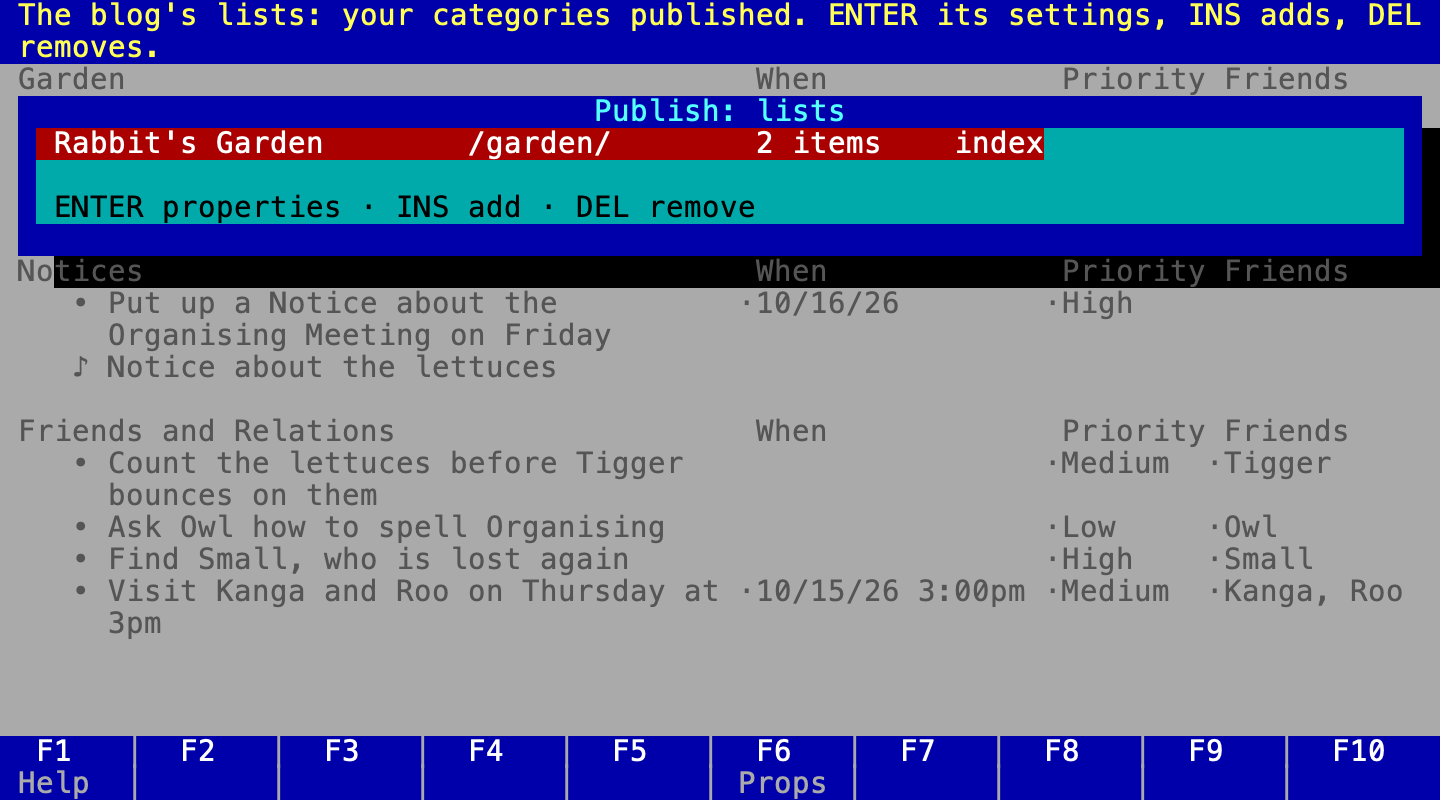
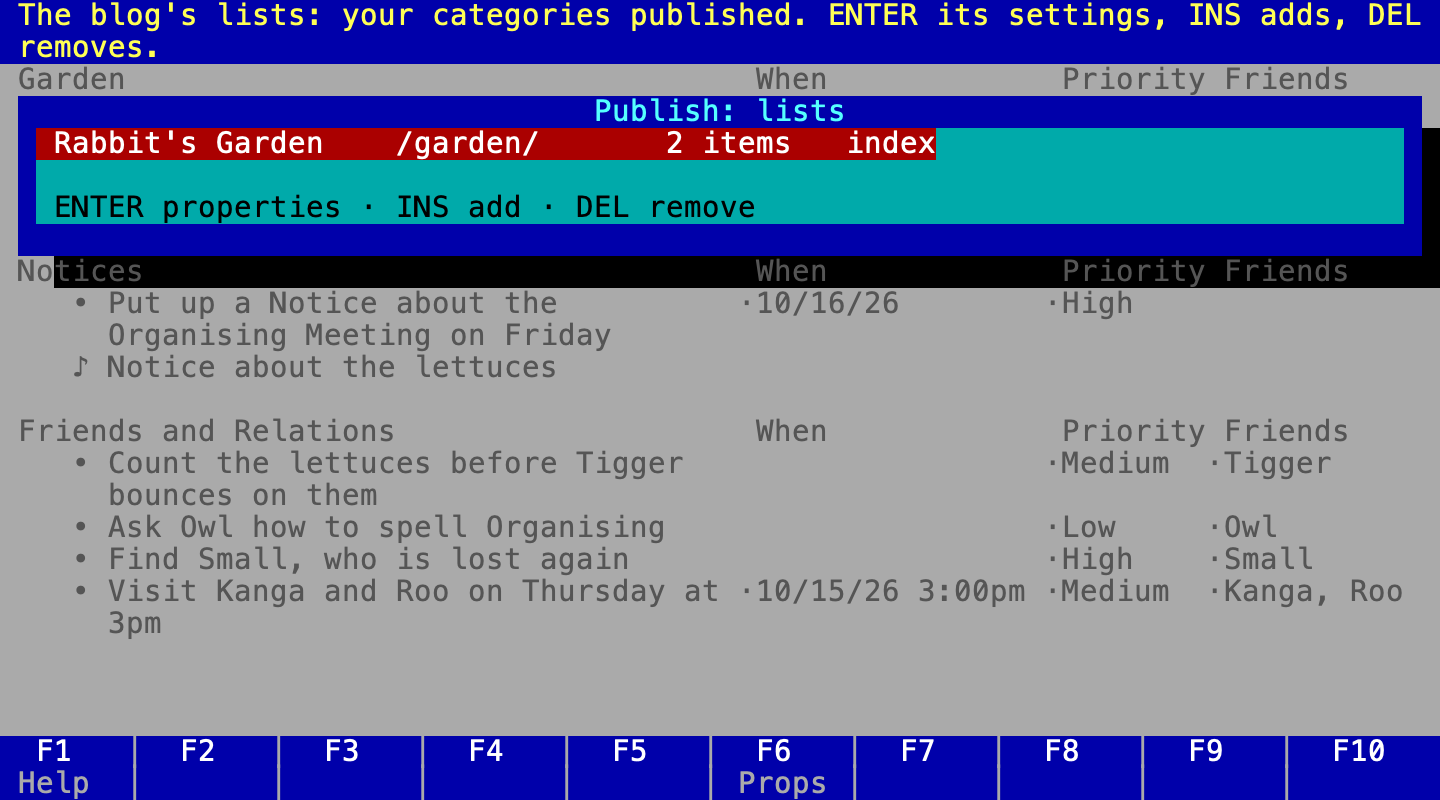
Manual: tag pages, written for 0.92
The list box's fifth switch, Tag pages, with what it makes; the Lists
screens recaptured with it.

Changed region(s): [[0.4688, 0.1562, 0.75, 0.2188], [0.2812, 0.1562, 0.4375, 0.2188]]

diff --git a/docs/manual/index.html b/docs/manual/index.html
@@ -61,7 +61,7 @@
   <p>Everything worth knowing about Wol's Agendum, the important things in depth and the
      rest in brief, as Owl explained it to Rabbit one afternoon. For the short
      version, see the <a href="../guide/index.html">User Guide</a>.</p>
-  <p class="written-for">Written for Agendum 0.91</p>
+  <p class="written-for">Written for Agendum 0.92</p>
 </header>
 
 <!-- ===================================================================== -->
@@ -2156,11 +2156,12 @@ lists, each with its folder, how many items it has, and what it publishes.
   <li><strong>Folder</strong>: where it goes on the site, made from its name at the
       first publish and kept (<code>/garden/</code>). Change it, and the list moves at
       the next publish.</li>
-  <li>Four switches (<kbd>SPACE</kbd> turns one over, <kbd>Y</kbd> and <kbd>N</kbd>
+  <li>Five switches (<kbd>SPACE</kbd> turns one over, <kbd>Y</kbd> and <kbd>N</kbd>
       set it): an <strong>Index page</strong> of its items; <strong>Feeds</strong> of
-      its own; <strong>Item pages</strong>, a page for each item; and
-      <strong>Notes</strong>, whether its items' notes are published. A new list has
-      only its index page.</li>
+      its own; <strong>Item pages</strong>, a page for each item;
+      <strong>Notes</strong>, whether its items' notes are published; and
+      <strong>Tag pages</strong>, a page for each category under the list's (below).
+      A new list has only its index page.</li>
   <li><strong>Newest</strong>: how many of its newest items its index and feeds show;
       empty, the Site's number; 0, all. Past them, it has an archive of its own.</li>
   <li><strong>Fields</strong>: the families whose values go out with each item, by
@@ -2169,6 +2170,13 @@ lists, each with its folder, how many items it has, and what it publishes.
   <li><strong>Item address</strong>: where its item pages go, as the posts' Address;
       empty, <code>garden/{zettel}.html</code>.</li>
 </ul>
+
+<p><strong>Tag pages.</strong> Make a family a list, say a <em>Tags</em> category with
+Elixir and Agenda under it, and turn on its Tag pages: each child with items gets a page
+of them, titles by month as the archive has them, at <code>tags/elixir.html</code>, and
+each post's own page says “Tags: Elixir · Agenda”, linked. An item in a child's child
+counts for the child. The page follows the category's name: rename it, and the page
+moves.</p>
 
 <p>A list's items are those in its category or under it, newest first. Drafts holds
 them back as it holds back posts, and an item in the Pages category is a page only.
@@ -2218,7 +2226,7 @@ script:</p>
 ./agendum --publish rabbit.agendum --preview</pre>
 <p>The first does what Publish and <kbd>ENTER</kbd> on its preview do, with your Upload
 settings, and prints what changed; with <code>--preview</code> it only says what would
-change. The extras must be on for the file's blog. A file with a password, or a server
+change. It works only with the extras on. A file with a password, or a server
 that asks for one, is published in Agendum, where a password can be asked for.</p>
 </section>
 

diff --git a/docs/manual/src/template.html b/docs/manual/src/template.html
@@ -61,7 +61,7 @@
   <p>Everything worth knowing about Wol's Agendum, the important things in depth and the
      rest in brief, as Owl explained it to Rabbit one afternoon. For the short
      version, see the <a href="../guide/index.html">User Guide</a>.</p>
-  <p class="written-for">Written for Agendum 0.91</p>
+  <p class="written-for">Written for Agendum 0.92</p>
 </header>
 
 <!-- ===================================================================== -->
@@ -2108,11 +2108,12 @@ lists, each with its folder, how many items it has, and what it publishes.
   <li><strong>Folder</strong>: where it goes on the site, made from its name at the
       first publish and kept (<code>/garden/</code>). Change it, and the list moves at
       the next publish.</li>
-  <li>Four switches (<kbd>SPACE</kbd> turns one over, <kbd>Y</kbd> and <kbd>N</kbd>
+  <li>Five switches (<kbd>SPACE</kbd> turns one over, <kbd>Y</kbd> and <kbd>N</kbd>
       set it): an <strong>Index page</strong> of its items; <strong>Feeds</strong> of
-      its own; <strong>Item pages</strong>, a page for each item; and
-      <strong>Notes</strong>, whether its items' notes are published. A new list has
-      only its index page.</li>
+      its own; <strong>Item pages</strong>, a page for each item;
+      <strong>Notes</strong>, whether its items' notes are published; and
+      <strong>Tag pages</strong>, a page for each category under the list's (below).
+      A new list has only its index page.</li>
   <li><strong>Newest</strong>: how many of its newest items its index and feeds show;
       empty, the Site's number; 0, all. Past them, it has an archive of its own.</li>
   <li><strong>Fields</strong>: the families whose values go out with each item, by
@@ -2121,6 +2122,13 @@ lists, each with its folder, how many items it has, and what it publishes.
   <li><strong>Item address</strong>: where its item pages go, as the posts' Address;
       empty, <code>garden/{zettel}.html</code>.</li>
 </ul>
+
+<p><strong>Tag pages.</strong> Make a family a list, say a <em>Tags</em> category with
+Elixir and Agenda under it, and turn on its Tag pages: each child with items gets a page
+of them, titles by month as the archive has them, at <code>tags/elixir.html</code>, and
+each post's own page says “Tags: Elixir · Agenda”, linked. An item in a child's child
+counts for the child. The page follows the category's name: rename it, and the page
+moves.</p>
 
 <p>A list's items are those in its category or under it, newest first. Drafts holds
 them back as it holds back posts, and an item in the Pages category is a page only.
